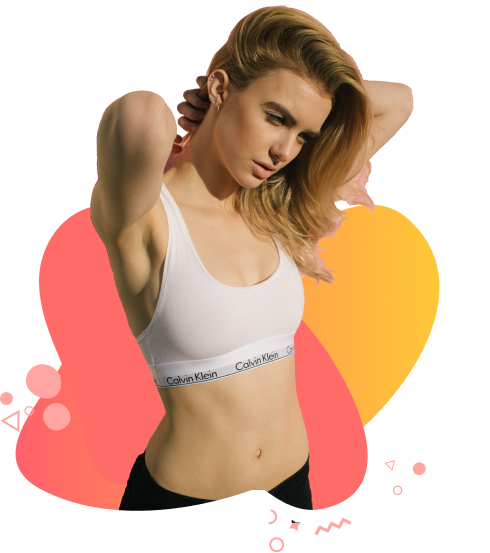
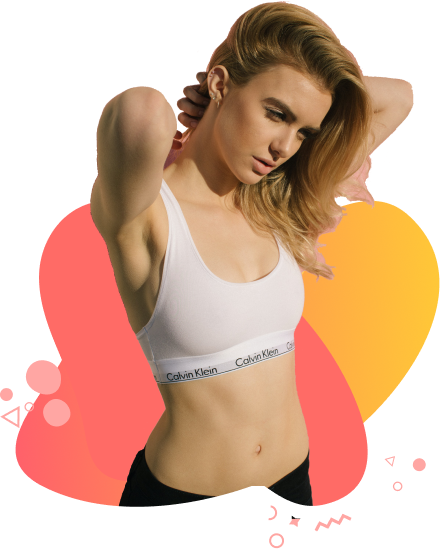
Add our-classes section

diff --git a/src/components/benefits/benefits.tsx b/src/components/benefits/benefits.tsx
@@ -1,6 +1,6 @@
 import { HomeModernIcon, UserGroupIcon, AcademicCapIcon } from "@heroicons/react/24/solid"
 import type { SelectedPage, BenefitType } from "../../shared/types";
-import HeaderText from "../../shared/headerText";
+import HeaderText from "../../shared/header-text";
 import { motion } from "framer-motion";
 import Card from "./cards";
 import BenefitsImage from "../../assets/BenefitsPageGraphic.png"
@@ -83,7 +83,7 @@ export default function Benefits({ setSelectedPage }: Props) {
         </motion.div>
       </div>
       {/* BENEFITS IMAGE AND DESCRIPTION */}
-      <div className="flex flex-col lg:flex-row gap-6 lg:gap-14">
+      <div className="flex flex-col lg:flex-row gap-6 lg:gap-25">
         {/* BENEFITS IMAGE */}
         <motion.div
           className="flex justify-center lg:justify-start lg:w-1/3"
@@ -96,11 +96,11 @@ export default function Benefits({ setSelectedPage }: Props) {
             visible: { opacity: 1, x: 0 },
           }}
         >
-          <img alt="benefits-image" src={BenefitsImage}/>
+          <img className="object-contain" alt="benefits-image" src={BenefitsImage}/>
         </motion.div>
         {/* BENEFITS DESCRIPTION */}
         <motion.div
-          className=" relative flex flex-col justify-center gap-8 lg:w-4/6 text-gray-500 py-10"
+          className=" relative flex flex-col justify-center gap-2 lg:gap-4 lg:w-4/6 text-gray-500 py-10"
           initial="hidden"
           whileInView="visible"
           viewport={{ once: true, amount: 0.5 }}
@@ -111,7 +111,7 @@ export default function Benefits({ setSelectedPage }: Props) {
           }}
         >
           {isAboveMediumScreens && <img 
-            className="w-1/8 absolute 2xl:-translate-y-40 lg:-translate-y-42 -translate-x-16" 
+            className="2xl:w-1/8 lg:w-1/7 w-1/8 absolute 2xl:-translate-y-36 lg:-translate-y-45 lg:-translate-x-16" 
             alt="abstract-waves" 
             src={AbstractWaves}/>}
           <div>
@@ -135,7 +135,7 @@ export default function Benefits({ setSelectedPage }: Props) {
             </p>
           </div>
           {isAboveMediumScreens && <img 
-            className="w-1/8 absolute translate-y-26 2xl:translate-x-150 lg:translate-x-120" 
+            className="w-1/8 absolute 2xl:translate-x-150 2xl:translate-y-30 lg:translate-x-120 lg:translate-y-32" 
             alt="sparkles" 
             src={Sparkles}/>
           }

diff --git a/src/components/our-classes/our-classes.tsx b/src/components/our-classes/our-classes.tsx
@@ -1,0 +1,25 @@
+import { SelectedPage } from '../../shared/types'
+import { motion } from 'framer-motion'
+import HeaderText from '../../shared/header-text'
+
+type Props = {
+  setSelectedPage: (value: SelectedPage) => void;
+}
+
+export default function OurClasses({ setSelectedPage }: Props) {
+  return (
+    <section id="our-classes" className="flex flex-col bg-primary-100 gap-14 py-24">
+      <motion.div className="flex flex-col mx-auto w-5/6 gap-4">
+        <HeaderText>OUR CLASSES</HeaderText>
+        <p className=" text-gray-500 lg:w-2/3 text-sm">
+          Fringilla a sed at suspendisse ut enim volutpat. Rhoncus vel est
+          tellus quam porttitor. Mauris velit euismod elementum arcu neque
+          facilisi. Amet semper tortor facilisis metus nibh. Rhoncus sit
+          enim mattis odio in risus nunc.
+        </p>
+      </motion.div>
+      <motion.div></motion.div>
+    </section>
+  )
+}
+

diff --git a/src/App.tsx b/src/App.tsx
@@ -3,6 +3,7 @@ import { SelectedPage } from "./shared/types"
 import { useState, useEffect } from "react"
 import Home from "./components/home/home"
 import Benefits from "./components/benefits/benefits"
+import OurClasses from "./components/our-classes/our-classes"
 
 export default function App() {
   const [selectedPage, setSelectedPage] = useState<SelectedPage>(SelectedPage.Home)
@@ -29,6 +30,7 @@ export default function App() {
       />
       <Home setSelectedPage={setSelectedPage}/>
       <Benefits setSelectedPage={setSelectedPage}/>
+      <OurClasses setSelectedPage={setSelectedPage}/>
     </div>
   )
 }
